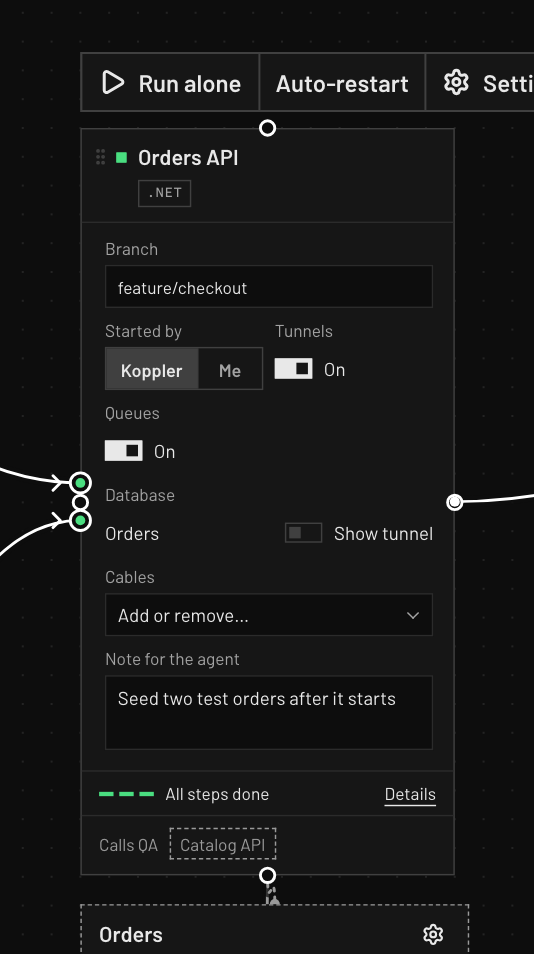
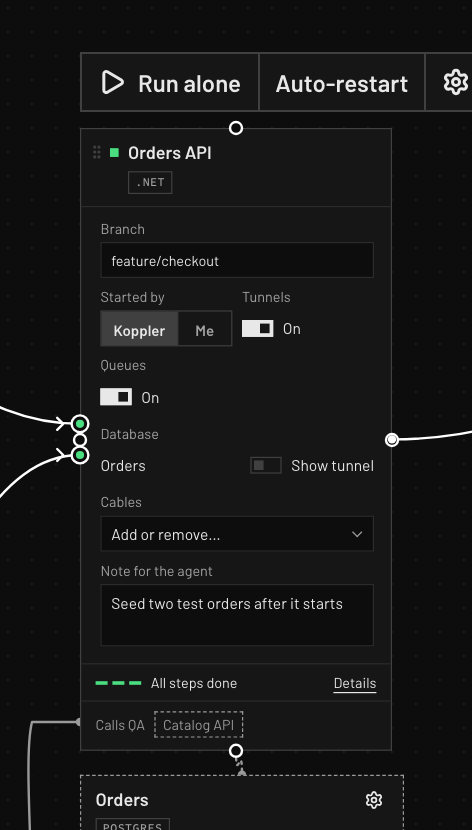
A link to an app's own queue goes round the database between them, and a blocked link tries the facing sides before a detour
An app's database and queue stack under it, so the publish link ran behind the database card. Links to the app's own cards are routed like any other now, and a detour's ends sit as near each other as their sides allow, clear of the cables at a side's middle. A link whose first sides are blocked goes across the facing sides when those are clear, instead of round the far side of its reader.

diff --git a/app/e2e/links-around.spec.ts b/app/e2e/links-around.spec.ts
@@ -59,3 +59,41 @@ test('after Arrange, a message link goes round the cards between its two ends', 
   await expect.poll(() => crossed(page)).toEqual([]);
   await page.screenshot({ path: 'test-results/links-around.png' });
 });
+
+test.describe('an app with its database and queue stacked under it', () => {
+  test.use({
+    stack: {
+      ...STACK,
+      queues: { events: { name: 'Order events', type: 'sqs' } },
+      databases: { 'orders-db': { name: 'Orders', kind: 'postgres', tunnel: 'aurora.qa.acme.example', port: 5432 } },
+      apps: {
+        ...STACK.apps,
+        orders: { ...STACK.apps.orders, prereqs: [], envs: {}, publishes: { events: {} }, uses: { 'orders-db': {} } },
+        payments: { ...STACK.apps.payments, reads: { events: {} } },
+      },
+    },
+    board: {
+      env: 'qa',
+      mode: 'auto',
+      nodes: { orders: { ...at(0, 0), showQueues: true }, payments: { ...at(600, 0), showQueues: true } },
+      queues: { events: 'local' },
+      edges: [{ from: 'orders', to: 'payments' }],
+    },
+  });
+
+  test('its publish link goes round the database, and the read link goes straight across', async ({ page }) => {
+    await expect(page.locator('.svelte-flow__node-queue')).toHaveCount(1);
+    await expect(page.locator('.svelte-flow__node-database')).toHaveCount(1);
+    await expect.poll(() => page.locator('.links .flow').count()).toBe(3);
+    await expect.poll(() => crossed(page)).toEqual([]);
+    // It lands on the reader's near side, the left, not round its far one.
+    const payments = await page.locator('.svelte-flow__node[data-id="payments"]').boundingBox();
+    const end = await page
+      .locator('.links .flow[data-link="queue:events>payments"] path.wire')
+      .evaluate((wire: SVGPathElement) => {
+        const p = wire.getPointAtLength(wire.getTotalLength());
+        return new DOMPoint(p.x, p.y).matrixTransform(wire.getScreenCTM() ?? undefined).x;
+      });
+    expect(Math.abs(end - (payments?.x ?? 0))).toBeLessThan(30);
+  });
+});

diff --git a/app/canvas/Board.svelte b/app/canvas/Board.svelte
@@ -301,14 +301,27 @@
             return x > box.x && x < box.x + box.w && y > box.y && y < box.y + box.h;
           }),
         );
-      // Except a card of the app's own stack, joined on whichever side it sits.
-      const routed = row === undefined && (database ? board.boxes.has(from) : !own);
-      const blocking = routed ? under(start, end) : [];
+      const routed = row === undefined && (!database || board.boxes.has(from));
+      let blocking = routed ? under(start, end) : [];
+      // Blocked, the sides that face each other across can still be clear.
+      if (blocking.length && sides[0] !== level[0] && !(taken(from, level[0]) || taken(to, level[1]))) {
+        const across = [sidePoint(a, level[0]), sidePoint(b, level[1])] as const;
+        if (!under(...across).length) {
+          sides = level;
+          [start, end] = across;
+          blocking = [];
+        }
+      }
       let detour: Point | undefined;
       if (blocking.length) {
         const side: Side = b.x + b.w / 2 <= a.x + a.w / 2 ? 'left' : 'right';
         sides = [side, side];
-        [start, end] = [sidePoint(a, side), sidePoint(b, side)];
+        // Each end as near the other as its side allows, clear of the cables at the side's middle.
+        const near = (box: Box, y: number) => ({
+          ...sidePoint(box, side),
+          y: Math.min(Math.max(y, box.y + 24), box.y + box.h - 24),
+        });
+        [start, end] = [near(a, b.y + b.h / 2), near(b, a.y + a.h / 2)];
         const edges = [a, b, ...blocking.map(([, box]) => box)];
         detour = {
           x:

diff --git a/app/e2e/queues.spec.ts b/app/e2e/queues.spec.ts
@@ -145,7 +145,9 @@ test('a card lists the apps it still calls in the deployed environment, and a cl
   await expect(calls).toHaveCount(0);
 });
 
-test('a queue card is joined to its own app on whichever side of the app it is moved to', async ({ page }) => {
+test('a queue card is joined to its own app on whichever side of the app it is moved to, round any card between', async ({
+  page,
+}) => {
   const events = queue(page).filter({ hasText: 'Order events' });
   const link = page.locator('.links .flow.msg .wire').first();
   const app = await card(page, 'orders').boundingBox();
@@ -165,10 +167,10 @@ test('a queue card is joined to its own app on whichever side of the app it is m
     await page.mouse.move(x + 30, y + 12, { steps: 8 });
     await page.mouse.up();
   };
-  const [right, bottom] = [Math.round(app.x + app.width), Math.round(app.y + app.height)];
-  // Under the app: the link leaves the app's bottom edge.
+  const [left, right, bottom] = [Math.round(app.x), Math.round(app.x + app.width), app.y + app.height];
+  // Under the app, past its tunnel card: the link goes round the tunnel, from the app's side.
   await moveTo(app.x, bottom + 60);
-  expect(Math.abs(((await start())[1] ?? 0) - bottom)).toBeLessThanOrEqual(1);
+  expect(Math.abs(((await start())[0] ?? 0) - left)).toBeLessThanOrEqual(1);
   // To its right, level with it: the right edge.
   await moveTo(right + 80, app.y + 40);
   expect(Math.abs(((await start())[0] ?? 0) - right)).toBeLessThanOrEqual(1);

diff --git a/app/e2e/link-direction.spec.ts b/app/e2e/link-direction.spec.ts
@@ -41,8 +41,9 @@ const middle = async (page: Page, id: string) => {
   if (!box) throw new Error('not drawn');
   return { x: box.x + box.width / 2, y: box.y + box.height / 2 };
 };
-const near = (a: { x: number } | null, b: { x: number }, c: { x: number }) =>
-  !!a && Math.abs(a.x - b.x) < Math.abs(a.x - c.x);
+type Point = { x: number; y: number };
+const near = (a: Point | null, b: Point, c: Point) =>
+  !!a && Math.hypot(a.x - b.x, a.y - b.y) < Math.hypot(a.x - c.x, a.y - c.y);
 
 test('a publish lands in the queue and a read in the app, each with a chevron; a cable too', async ({ page }) => {
   const queue = page.locator('.svelte-flow__node-queue');
